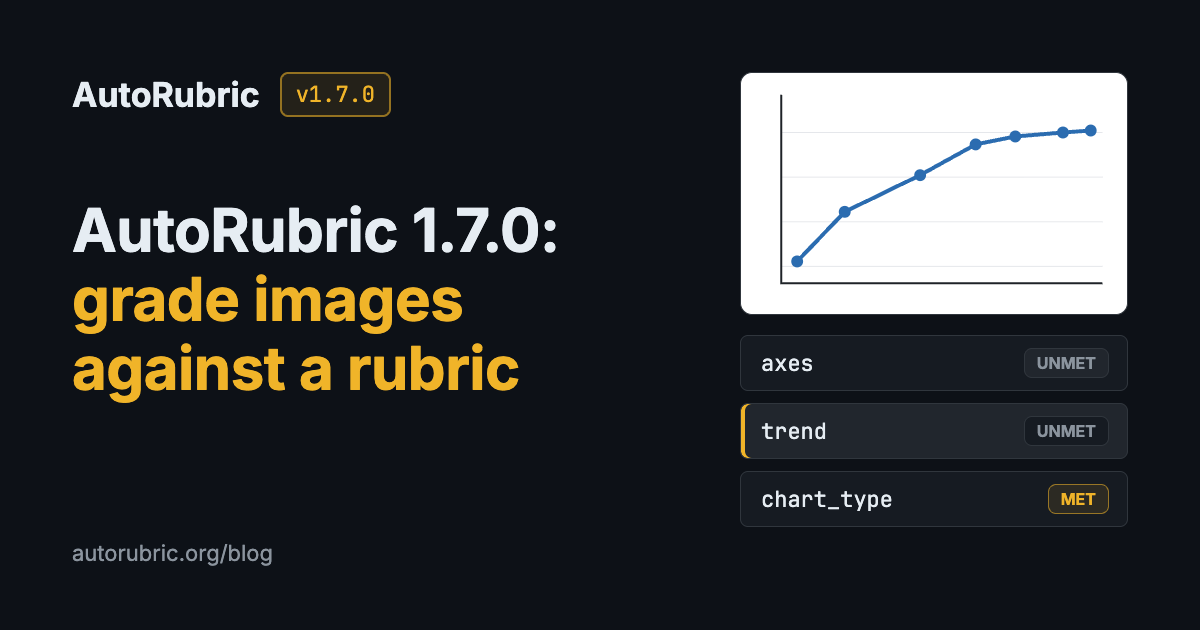
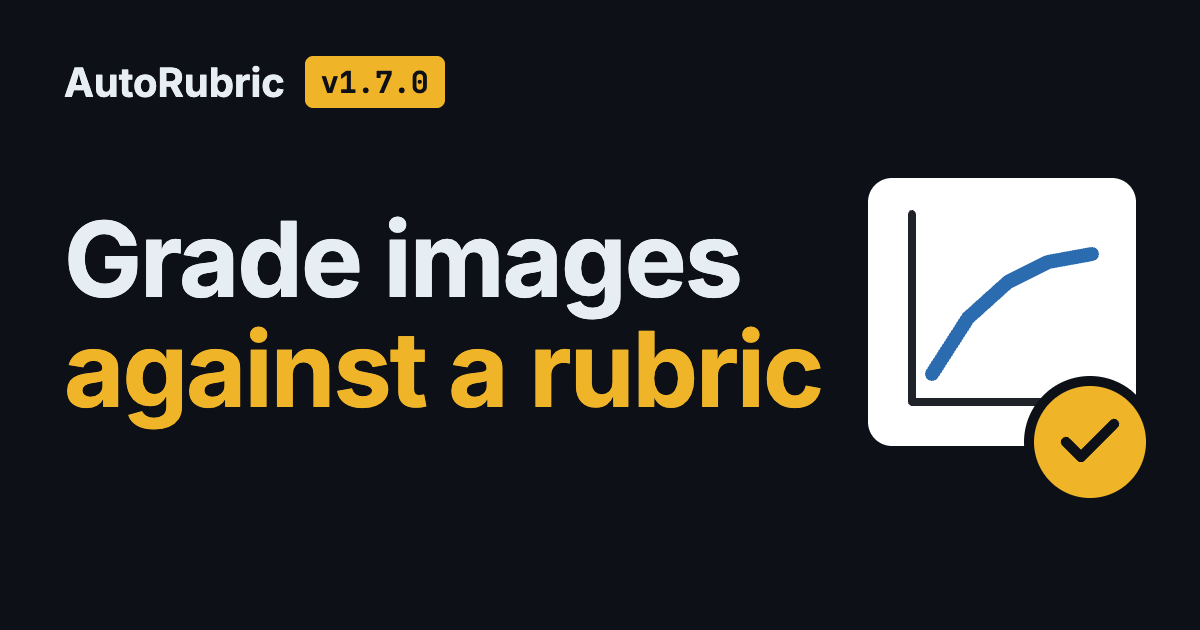
Redesign the 1.7.0 post's social card to read at thumbnail size
LinkedIn shows a link's image about 250px wide, where the first card's
60px title and rubric rows were unreadable. The card now has a 104px
headline, a solid version badge and one large motif. The rendering
contract asks for cards to be checked at that size.

diff --git a/blog/posts/autorubric-1-7-0-image-rubrics/card.html b/blog/posts/autorubric-1-7-0-image-rubrics/card.html
@@ -13,63 +13,45 @@
         position: relative;
     }
     .mono { font-family: 'JetBrains Mono', 'SF Mono', Menlo, Consolas, monospace; }
-    .brand { position: absolute; left: 72px; top: 72px; display: flex; align-items: center; gap: 20px; }
-    .wordmark { font-size: 34px; font-weight: 700; }
+    /* Sized to stay legible when a platform shrinks the card to a ~250px thumbnail. */
+    .brand { position: absolute; left: 64px; top: 56px; display: flex; align-items: center; gap: 20px; }
+    .wordmark { font-size: 40px; font-weight: 700; }
     .version {
-        font-size: 22px; color: #f0b429; padding: 6px 14px; border-radius: 8px;
-        border: 2px solid rgba(240, 180, 41, 0.55); background: rgba(240, 180, 41, 0.10);
+        font-size: 30px; font-weight: 700; color: #0d1117; background: #f0b429;
+        padding: 6px 16px; border-radius: 8px;
     }
     h1 {
-        position: absolute; left: 72px; top: 196px; width: 600px;
-        font-size: 60px; line-height: 1.15; font-weight: 700; letter-spacing: -0.5px;
+        position: absolute; left: 64px; top: 204px; width: 800px;
+        font-size: 104px; line-height: 1.06; font-weight: 700; letter-spacing: -2px;
     }
     h1 span { display: block; color: #f0b429; }
-    .url { position: absolute; left: 72px; bottom: 64px; font-size: 22px; color: #8b949e; }
 
-    .motif { position: absolute; left: 740px; top: 72px; width: 388px; }
+    .motif { position: absolute; left: 868px; top: 178px; width: 268px; height: 330px; }
     .sheet {
-        width: 388px; height: 243px; background: #ffffff; border-radius: 12px;
-        border: 1px solid #30363d; display: block;
+        position: absolute; left: 0; top: 0; width: 268px; height: 268px;
+        background: #ffffff; border-radius: 24px; display: block;
     }
-    .rows { margin-top: 20px; display: grid; gap: 12px; }
-    .row {
-        height: 56px; display: flex; align-items: center; justify-content: space-between;
-        padding: 0 18px 0 20px; background: #161b22; border: 1px solid #30363d; border-radius: 8px;
-        font-size: 22px;
+    .badge {
+        position: absolute; right: -20px; bottom: 0; width: 132px; height: 132px;
+        border-radius: 50%; background: #f0b429; border: 10px solid #0d1117;
+        display: flex; align-items: center; justify-content: center;
     }
-    .row.key { background: #21262d; box-shadow: inset 4px 0 0 #f0b429; }
-    .chip {
-        font-size: 16px; font-weight: 700; padding: 4px 12px; border-radius: 8px;
-        color: #8b949e; background: #21262d; border: 1px solid #30363d;
-    }
-    .row.key .chip { background: #161b22; }
-    .chip.met { color: #f0b429; background: rgba(240, 180, 41, 0.10); border-color: rgba(240, 180, 41, 0.55); }
 </style>
 </head>
 <body>
     <div class="brand"><span class="wordmark">AutoRubric</span><span class="version mono">v1.7.0</span></div>
-    <h1>AutoRubric 1.7.0: <span>grade images against a rubric</span></h1>
-    <div class="url">autorubric.org/blog</div>
+    <h1>Grade images <span>against a rubric</span></h1>
 
     <div class="motif" aria-hidden="true">
-        <svg class="sheet" viewBox="0 0 388 243" xmlns="http://www.w3.org/2000/svg">
-            <g stroke="#e5e7eb" stroke-width="1">
-                <line x1="40" y1="60" x2="364" y2="60"/><line x1="40" y1="105" x2="364" y2="105"/>
-                <line x1="40" y1="150" x2="364" y2="150"/><line x1="40" y1="195" x2="364" y2="195"/>
-            </g>
-            <polyline points="40,22 40,212 364,212" fill="none" stroke="#1f2328" stroke-width="2"/>
-            <polyline points="56,190 104,140 180,103 236,72 276,64 324,60 352,58"
-                fill="none" stroke="#2b6cb0" stroke-width="4" stroke-linejoin="round"/>
-            <g fill="#2b6cb0">
-                <circle cx="56" cy="190" r="6"/><circle cx="104" cy="140" r="6"/><circle cx="180" cy="103" r="6"/>
-                <circle cx="236" cy="72" r="6"/><circle cx="276" cy="64" r="6"/><circle cx="324" cy="60" r="6"/>
-                <circle cx="352" cy="58" r="6"/>
-            </g>
+        <svg class="sheet" viewBox="0 0 268 268" xmlns="http://www.w3.org/2000/svg">
+            <polyline points="44,36 44,224 232,224" fill="none" stroke="#1f2328" stroke-width="8"
+                stroke-linecap="round" stroke-linejoin="round"/>
+            <polyline points="64,196 100,140 140,104 180,84 224,76" fill="none" stroke="#2b6cb0"
+                stroke-width="14" stroke-linecap="round" stroke-linejoin="round"/>
         </svg>
-        <div class="rows">
-            <div class="row"><span class="mono">axes</span><span class="chip">UNMET</span></div>
-            <div class="row key"><span class="mono">trend</span><span class="chip">UNMET</span></div>
-            <div class="row"><span class="mono">chart_type</span><span class="chip met">MET</span></div>
+        <div class="badge">
+            <svg width="72" height="72" viewBox="0 0 24 24" fill="none" stroke="#0d1117" stroke-width="3.5"
+                stroke-linecap="round" stroke-linejoin="round"><polyline points="20 6 9 17 4 12"/></svg>
         </div>
     </div>
 </body>

diff --git a/blog/posts/autorubric-1-7-0-image-rubrics/index.html b/blog/posts/autorubric-1-7-0-image-rubrics/index.html
@@ -5,7 +5,7 @@
     <meta charset="UTF-8">
     <meta name="viewport" content="width=device-width, initial-scale=1.0">
     <title>AutoRubric 1.7.0: grade images against a rubric — AutoRubric Blog</title>
-    <meta name="autorubric:source" content="version=1; post=sha256:b6799b27b660615e783a300a747ad0fa14740baabd085ed16480076904a3d957; design=sha256:3161d865fd34e5ba05b3a1f2c2385df67d042c49f55cf71a93f67f3284b953b6">
+    <meta name="autorubric:source" content="version=1; post=sha256:b6799b27b660615e783a300a747ad0fa14740baabd085ed16480076904a3d957; design=sha256:ea8bee7a62d2c854fc5ee2b4e1d577c13d167d8981e751af7ecfca39c71a672a">
     <meta name="description" content="AutoRubric 1.7.0 grades charts, screenshots and scans against a rubric with LLM judges and decision models, and lowers per-criterion cost with prompt caching.">
     <meta name="author" content="Delip Rao">
     <meta name="keywords" content="release, images, prompt-caching, AutoRubric 1.7.0, image inputs, LLM judges, decision models, Jev, prompt cache, per-criterion grading, LiteLLM">
@@ -22,7 +22,7 @@
     <meta property="og:image" content="https://autorubric.org/blog/autorubric-1-7-0-image-rubrics/card.png">
     <meta property="og:image:width" content="1200">
     <meta property="og:image:height" content="630">
-    <meta property="og:image:alt" content="The AutoRubric wordmark, a v1.7.0 badge and the title “AutoRubric 1.7.0: grade images against a rubric”, beside a small line chart and three rubric criteria, axes, trend and chart_type, marked UNMET, UNMET and MET.">
+    <meta property="og:image:alt" content="The AutoRubric wordmark, a v1.7.0 badge and the words “Grade images against a rubric” in large type, beside a line chart with a gold check mark.">
     <meta property="article:published_time" content="2026-11-10">
     <meta property="article:modified_time" content="2026-11-10">
     <meta property="article:author" content="Delip Rao">
@@ -34,7 +34,7 @@
     <meta name="twitter:title" content="AutoRubric 1.7.0: grade images against a rubric">
     <meta name="twitter:description" content="AutoRubric 1.7.0 grades charts, screenshots and scans against a rubric with LLM judges and decision models, and lowers per-criterion cost with prompt caching.">
     <meta name="twitter:image" content="https://autorubric.org/blog/autorubric-1-7-0-image-rubrics/card.png">
-    <meta name="twitter:image:alt" content="The AutoRubric wordmark, a v1.7.0 badge and the title “AutoRubric 1.7.0: grade images against a rubric”, beside a small line chart and three rubric criteria, axes, trend and chart_type, marked UNMET, UNMET and MET.">
+    <meta name="twitter:image:alt" content="The AutoRubric wordmark, a v1.7.0 badge and the words “Grade images against a rubric” in large type, beside a line chart with a gold check mark.">
 
     <script type="application/ld+json">
 {

diff --git a/blog/posts/autorubric-1-7-0-image-rubrics/design.md b/blog/posts/autorubric-1-7-0-image-rubrics/design.md
@@ -220,23 +220,22 @@ One inline script at the end of `<body>` (plus the shared footer's year script):
 
 `card.html` → `card.png`, 1200×630, body `#0d1117`, system font stack
 (`'Inter', -apple-system, …`; JetBrains Mono → SF Mono/Menlo for mono), rendered
-with headless Chrome at device scale 1 (about 50 KB).
+with headless Chrome at device scale 1 (about 43 KB). Everything is sized to stay
+legible when a platform shrinks the card to a thumbnail about 250px wide, as LinkedIn
+does: few words, very large type, one bold motif, no small text.
 
-- Top left at (72, 72): "AutoRubric" wordmark 34px/700 `#e6edf3`, then 20px gap and a
-  "v1.7.0" badge (mono 22px, gold, padding `6px 14px`, radius 8px, 2px gold 55%
-  border, gold 10% fill).
-- Title at (72, 196), 600px wide, 60px/1.15/700, letter-spacing −0.5px:
-  "AutoRubric 1.7.0:" in `#e6edf3`, then "grade images against a rubric" on its own
-  lines in gold `#f0b429`.
-- "autorubric.org/blog" at left 72, bottom 64, 22px `#8b949e`.
-- Motif at (740, 72), 388px wide: a white 388×243 sheet (radius 12px, 1px `#30363d`)
-  holding an inline-SVG line chart drawn after Bob's (rising, then flat; four light
-  gridlines, dark axes, blue `#2b6cb0` 4px line with seven 6px dots, no labels); 20px
-  below, three rows 56px tall, 12px apart (`#161b22`, 1px `#30363d`, radius 8px, 22px
-  mono criterion name left, chip right): `axes` UNMET, `trend` UNMET (row on
-  `#21262d` with a 4px gold inset left bar), `chart_type` MET. Chips 16px/700, padding
-  `4px 12px`, radius 8px; MET gold on gold 10% with gold 55% border; UNMET `#8b949e`.
-  These are Bob's verdicts from the post.
+- Top left at (64, 56): "AutoRubric" wordmark 40px/700 `#e6edf3`, then a 20px gap and a
+  "v1.7.0" badge (mono 30px/700, `#0d1117` on solid gold `#f0b429`, padding `6px 16px`,
+  radius 8px).
+- Headline at (64, 204), 800px wide, 104px/1.06/700, letter-spacing −2px: "Grade images"
+  in `#e6edf3`, then "against a rubric" on its own line in gold. The version is in the
+  badge, so the headline drops "AutoRubric 1.7.0:".
+- Motif at (868, 178), 268×330: a white 268×268 sheet (radius 24px) holding an inline-SVG
+  chart with no labels (dark `#1f2328` axes, 8px stroke; a blue `#2b6cb0` 14px line that
+  rises and flattens, round caps). Overlapping its bottom-right corner (right −20px,
+  bottom 0) is a 132px gold circle with a 10px `#0d1117` ring and a 72px dark check mark
+  (Feather `check`, stroke 3.5).
+- No URL line and no rubric rows: neither survives the thumbnail size.
 
 ## Deviations
 
@@ -277,3 +276,6 @@ with headless Chrome at device scale 1 (about 50 KB).
   `wordCount` 2102 → 2105.
 - v1 (2026-11-10): the example explanation is now real output (Bob's report graded once with
   `openai/gpt-5.6-luna`; the `axes` line); the paragraph above it reworded; `wordCount` 2105 → 2099.
+- v1 (2026-11-10): social card redesigned after seeing it on LinkedIn, where link previews
+  are small thumbnails: larger type (104px headline), a solid version badge, one large motif;
+  `og:image:alt` and `twitter:image:alt` rewritten to match.

diff --git a/blog/RENDERING.md b/blog/RENDERING.md
@@ -158,6 +158,12 @@ and screenshot it:
 "/Applications/Google Chrome.app/Contents/MacOS/Google Chrome" --headless --hide-scrollbars --force-device-scale-factor=1 --window-size=1200,630 --screenshot=blog/posts/SLUG/card.png "file://$PWD/blog/posts/SLUG/card.html"
 ```
 
+Design the card for the smallest place it appears. LinkedIn shows a link's image as
+a thumbnail about 250px wide, so anything set below roughly 80px on the 1200px card
+is unreadable there. Use few words (a short headline, the wordmark, at most a
+version or date), very large type, and one bold shape. Leave out URLs, captions and
+fine detail. Check it by scaling `card.png` down to 256px wide and reading it.
+
 Set `og:image:alt` to a sentence describing the card. Keep `card.png` under about
 300 KB (flat color compresses well; avoid noise and photographs).
 
